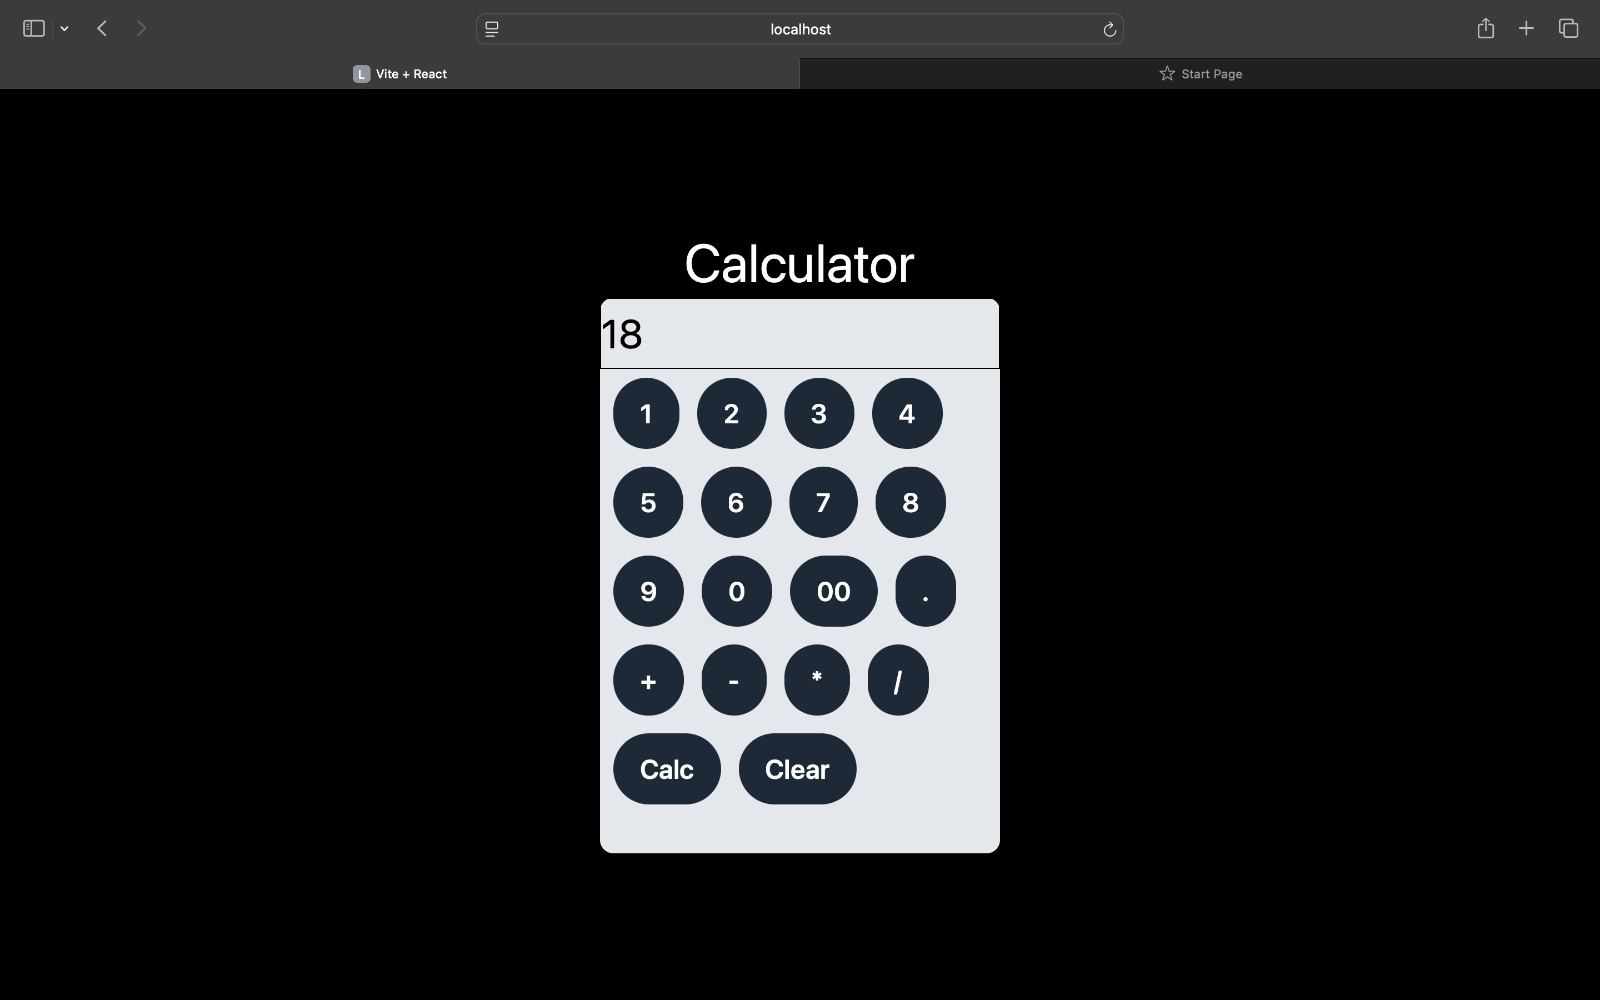
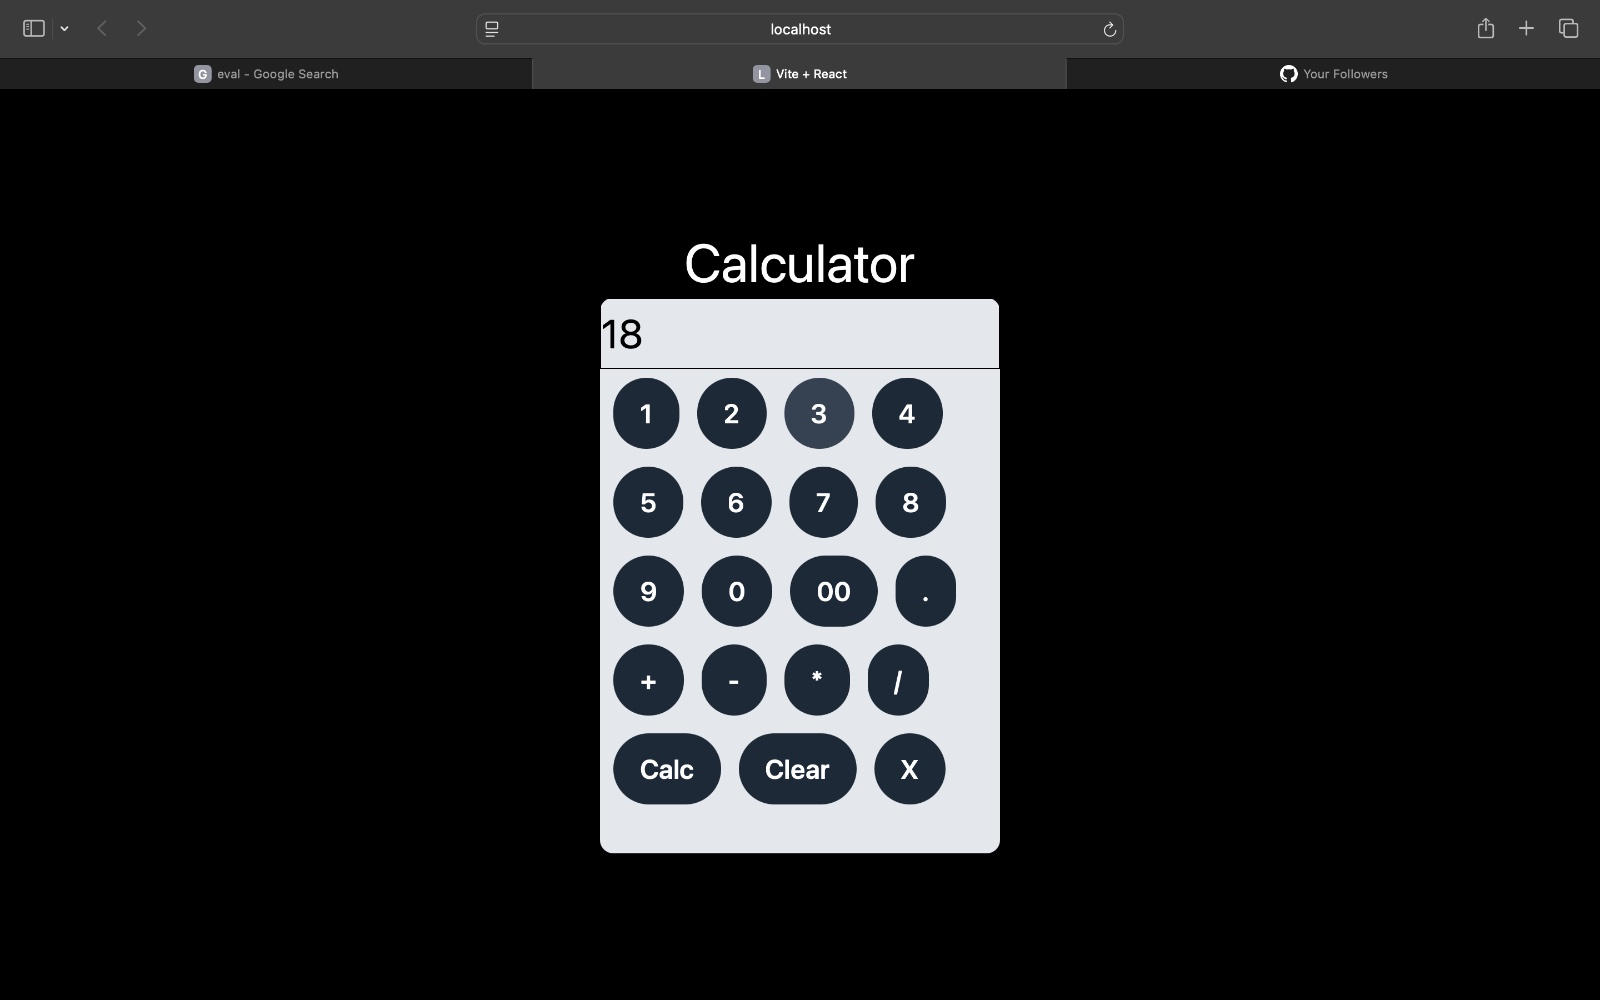
delete button added

diff --git a/src/components/Calculator.jsx b/src/components/Calculator.jsx
@@ -1,7 +1,7 @@
 import { useState } from "react";
 
 export default function Calculator() {
-   const ope=['1','2','3','4','5','6','7','8','9','0','00','.','+','-','*','/','Calc','Clear'];
+   const ope=['1','2','3','4','5','6','7','8','9','0','00','.','+','-','*','/','Calc','Clear','X'];
    const [value,setValue]=useState('')
      function handleClick(input){
       if(input==='Calc'){
@@ -11,6 +11,8 @@ export default function Calculator() {
         
       }else if(input==='Clear'){
          setValue('')
+      }else if(input ==='X'){
+        setValue(value.slice(0,-1))
       }
       else{
       // console.log(input);
